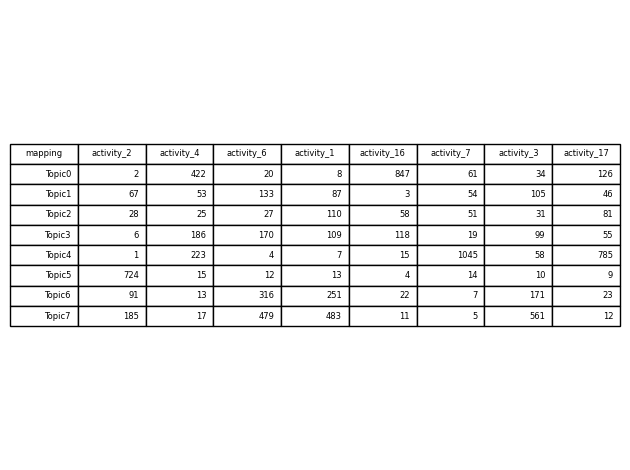
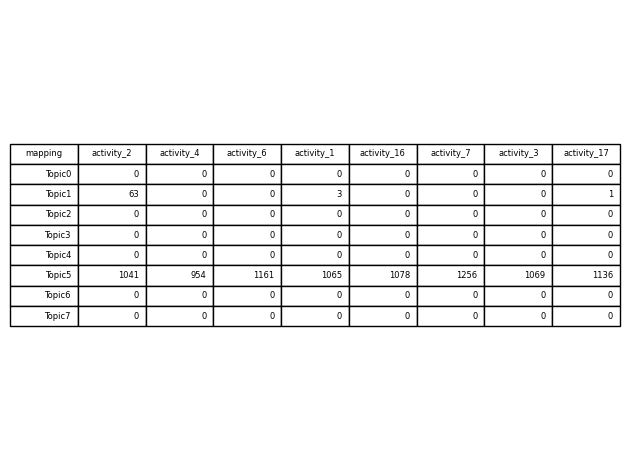
adding changes for clusters testing

diff --git a/src/glda_extrasensorydata/glda_clustering.py b/src/glda_extrasensorydata/glda_clustering.py
@@ -1,4 +1,5 @@
 import os
+import csv
 import numpy as np
 from gaussianlda import GaussianLDAAliasTrainer
 from gaussianlda.model import GaussianLDA
@@ -11,62 +12,33 @@ from sklearn.metrics import classification_report
 from sklearn.metrics.cluster import adjusted_rand_score
 
 
-def print_testresults(test_results, classification_report_dict):
+def write_testresults(logger, test_results, classification_report_dict, clustering_algo, clustering_cnts, alpha):
 
-    accuracy = classification_report_dict['accuracy']
+    accuracy = classification_report_dict['accuracy']*100
     ari = classification_report_dict['adjusted_rand_index_score']
-    weighted_average_precision = classification_report_dict['weighted avg']['precision']
-    weighted_average_recall = classification_report_dict['weighted avg']['recall']
-    weighted_average_f1_score = classification_report_dict['weighted avg']['f1-score']
+    weighted_average_precision = classification_report_dict['weighted avg']['precision'] * 100
+    weighted_average_recall = classification_report_dict['weighted avg']['recall'] * 100
+    weighted_average_f1_score = classification_report_dict['weighted avg']['f1-score'] * 100
 
-    print(f'Accuracy {accuracy*100}')
-    print(f'Adjusted Rand Index Score {ari}')
-    print(
-        f'Weighted Average weighted_average_precision {weighted_average_precision*100}')
-    print(
-        f'Weighted Average weighted_average_recall {weighted_average_recall*100}')
-    print(
-        f'Weighted Average weighted_average_f1_score {weighted_average_f1_score*100}')
+    glda_output = [clustering_algo, clustering_cnts, alpha, accuracy, ari,
+                   weighted_average_precision, weighted_average_recall, weighted_average_f1_score]
 
-    # for key, val in test_results.items():
+    with open("output/glda_performance_data.csv", "a", newline='') as fp:
+        wr = csv.writer(fp, dialect='excel')
+        wr.writerow(glda_output)
 
-    #     print(f'----------- {key} --------------')
-    #     total_words = val[1]
-    #     for distribution in val[0].most_common():
-    #         percentage = (distribution[1]/total_words) * 100
-    #         print(f'Topic: {distribution[0]}  = {percentage}')
+    logger.info(
+        f'Finished writing glda performance metrics to the output')
 
 
-if __name__ == "__main__":
-
-    # _for documents
-    input_txt_filepath = os.getcwd() + f'/../../data/extra_sensory_data/*activity_subseq_*.txt'
-
-    # _for cluster embeddings
-    embeddings_filepath = os.getcwd(
-    ) + f'/../../data/extra_sensory_data/word_embeddings_from_clusters.txt'
-
-    vocab, embeddings, corpus, activity_labels = get_cluster_embeddings(
-        input_txt_filepath, embeddings_filepath)
-
-    num_topics = len(set(activity_labels))
-    output_dir = "saved_model"
-
-    # Prepare a trainer
-    trainer = GaussianLDAAliasTrainer(
-        corpus, embeddings, vocab, num_topics, 0.2, save_path=output_dir, show_topics=num_topics
-    )
-    # Set training running
-    trainer.sample(3)
-
-    activity_topic_mapping = get_activity_topic_mapping(activity_labels)
+def test_glda_clustering(logger, activity_topic_mapping, clustering_algo, clustering_cnts, alpha):
 
     output_dir = "saved_model"
     model = GaussianLDA.load(output_dir)
 
     test_docs, test_doc_labels = get_test_documents()
 
-    iterations = 100
+    iterations = 200
 
     test_results = {}
 
@@ -87,4 +59,43 @@ if __name__ == "__main__":
     classification_report_dict['adjusted_rand_index_score'] = adjusted_rand_score(
         test_doc_true, test_doc_glda)
 
-    print_testresults(test_results, classification_report_dict)
+    logger.info(
+        f'Finished glda evaluation')
+
+    write_testresults(logger, test_results, classification_report_dict,
+                      clustering_algo, clustering_cnts, alpha)
+
+
+def perform_glda_clustering(logger, clustering_algo, clustering_cnts):
+
+    # _for documents
+    input_txt_filepath = os.getcwd() + f'/clustering_output/*activity_subseq_*.txt'
+
+    # _for cluster embeddings
+    embeddings_filepath = os.getcwd(
+    ) + f'/clustering_output/featues_from_clustering.txt'
+
+    vocab, embeddings, corpus, activity_labels = get_cluster_embeddings(
+        input_txt_filepath, embeddings_filepath)
+
+    num_topics = len(set(activity_labels))
+    output_dir = "saved_model"
+
+    testing_alpha_values = [0.02, 0.1, 0.5]
+
+    for alpha in testing_alpha_values:
+
+        # Prepare a trainer
+        trainer = GaussianLDAAliasTrainer(
+            corpus, embeddings, vocab, num_topics, alpha, save_path=output_dir, show_topics=num_topics
+        )
+        # Set training running
+        trainer.sample(5)
+
+        logger.info(
+            f'Finished glda clustering')
+
+        activity_topic_mapping = get_activity_topic_mapping(activity_labels)
+
+        test_glda_clustering(logger, activity_topic_mapping,
+                             clustering_algo, clustering_cnts, alpha)

diff --git a/src/glda_extrasensorydata/clustering_features.py b/src/glda_extrasensorydata/clustering_features.py
@@ -1,0 +1,109 @@
+import sys
+import logging
+import logging.config
+import numpy as np
+import pandas as pd
+
+from sklearn.preprocessing import StandardScaler
+from sklearn.mixture import GaussianMixture
+from sklearn.cluster import KMeans
+
+from glda_clustering import perform_glda_clustering
+
+
+def configure_log_settings():
+
+    logging.basicConfig(level=logging.INFO, filename='logs/glda_testing_analysis.log',
+                        filemode='a', format='%(name)s - %(levelname)s - %(message)s')
+    logging.config.dictConfig({
+        'version': 1,
+        'disable_existing_loggers': True,
+    })
+
+    logging.getLogger("GLDA").setLevel(logging.WARNING)
+    logging.getLogger("GLDA").propagate = False
+
+    return logging.getLogger('glda_testing_logger')
+
+
+def generate_words(cluster_cnts):
+
+    prefix = 'W_'
+    return [prefix+str(val) for val in range(1, cluster_cnts+1)]
+
+
+def generate_cluster_words(seq_clusters, cluster_words):
+
+    assigned_words = np.where(
+        seq_clusters != 0, seq_clusters, cluster_words[0])
+    for idx in range(1, len(cluster_words)):
+        assigned_words = np.where(
+            seq_clusters != idx, assigned_words, cluster_words[idx])
+
+    return assigned_words
+
+
+def write_clustering_output(logger, doc_df, features):
+
+    features_filepath = f'clustering_output/featues_from_clustering.txt'
+    pd.DataFrame(features).to_csv(features_filepath, index=False, header=False)
+
+    for activity in doc_df['activity_label'].unique():
+        output_filepath = f'clustering_output/activity_subseq_' + \
+            str(activity) + '.txt'
+        doc_df.loc[doc_df['activity_label'] == activity][['element_name']].to_csv(
+            output_filepath, sep='\t', index=False, header=False)
+
+    logger.info(
+        f'Finished writing features and document files')
+
+
+def perform_clustering(logger, clustering_algo, cluster_cnts):
+
+    main_df = pd.read_csv('input/sensor_features_lstm_tuned.csv', header=None)
+    main_df.iloc[:, 1:] = StandardScaler().fit_transform(
+        main_df.iloc[:, 1:].to_numpy())
+
+    activity_data = main_df.iloc[:, 0].values.astype('int32')
+    sensor_data = main_df.iloc[:, 1:].values.astype('float32')
+
+    logger.info(
+        f'clustering with -- {clustering_algo} algorithm with cluster counts:{cluster_cnts}')
+
+    if clustering_algo == 'gmm':
+        gmm = GaussianMixture(n_components=cluster_cnts,
+                              random_state=2).fit(sensor_data)
+        clusters = gmm.predict(sensor_data)
+        features = gmm.means_
+    elif clustering_algo == 'kmeans':
+        kmeans = KMeans(n_clusters=cluster_cnts,
+                        random_state=0).fit(sensor_data)
+        clusters = kmeans.labels_
+        features = kmeans.cluster_centers_
+
+    logger.info(
+        f'Finished clustering')
+
+    cluster_names = generate_words(cluster_cnts)
+    doc_df = pd.DataFrame(columns=['activity_label', 'element_name'])
+    doc_df['activity_label'] = list(activity_data)
+    doc_df['element_name'] = generate_cluster_words(clusters, cluster_names)
+
+    write_clustering_output(logger, doc_df, features)
+
+
+if __name__ == '__main__':
+
+    logger = configure_log_settings()
+    logger.info(
+        f'Starting clustering features: usage --> python clustering_features.py _clustering_algo_ _cluster_cnts_')
+
+    clustering_algo = sys.argv[1]
+    cluster_cnts = int(sys.argv[2])
+
+    perform_clustering(logger, clustering_algo, cluster_cnts)
+
+    logger.info(
+        f'Finished clustering features')
+
+    perform_glda_clustering(logger, clustering_algo, cluster_cnts)

diff --git a/src/glda_extrasensorydata/glda_mapping.py b/src/glda_extrasensorydata/glda_mapping.py
@@ -74,6 +74,7 @@ def get_activity_topic_mapping(activity_labels):
                 'activity_topic_mapping.png', bbox_inches='tight')
 
     topic_doc_counts_df.drop(['aa'], axis=1, inplace=True)
+    activity_labels.pop(0)
     return topic_doc_mapping(topic_doc_counts_df)
 
 
